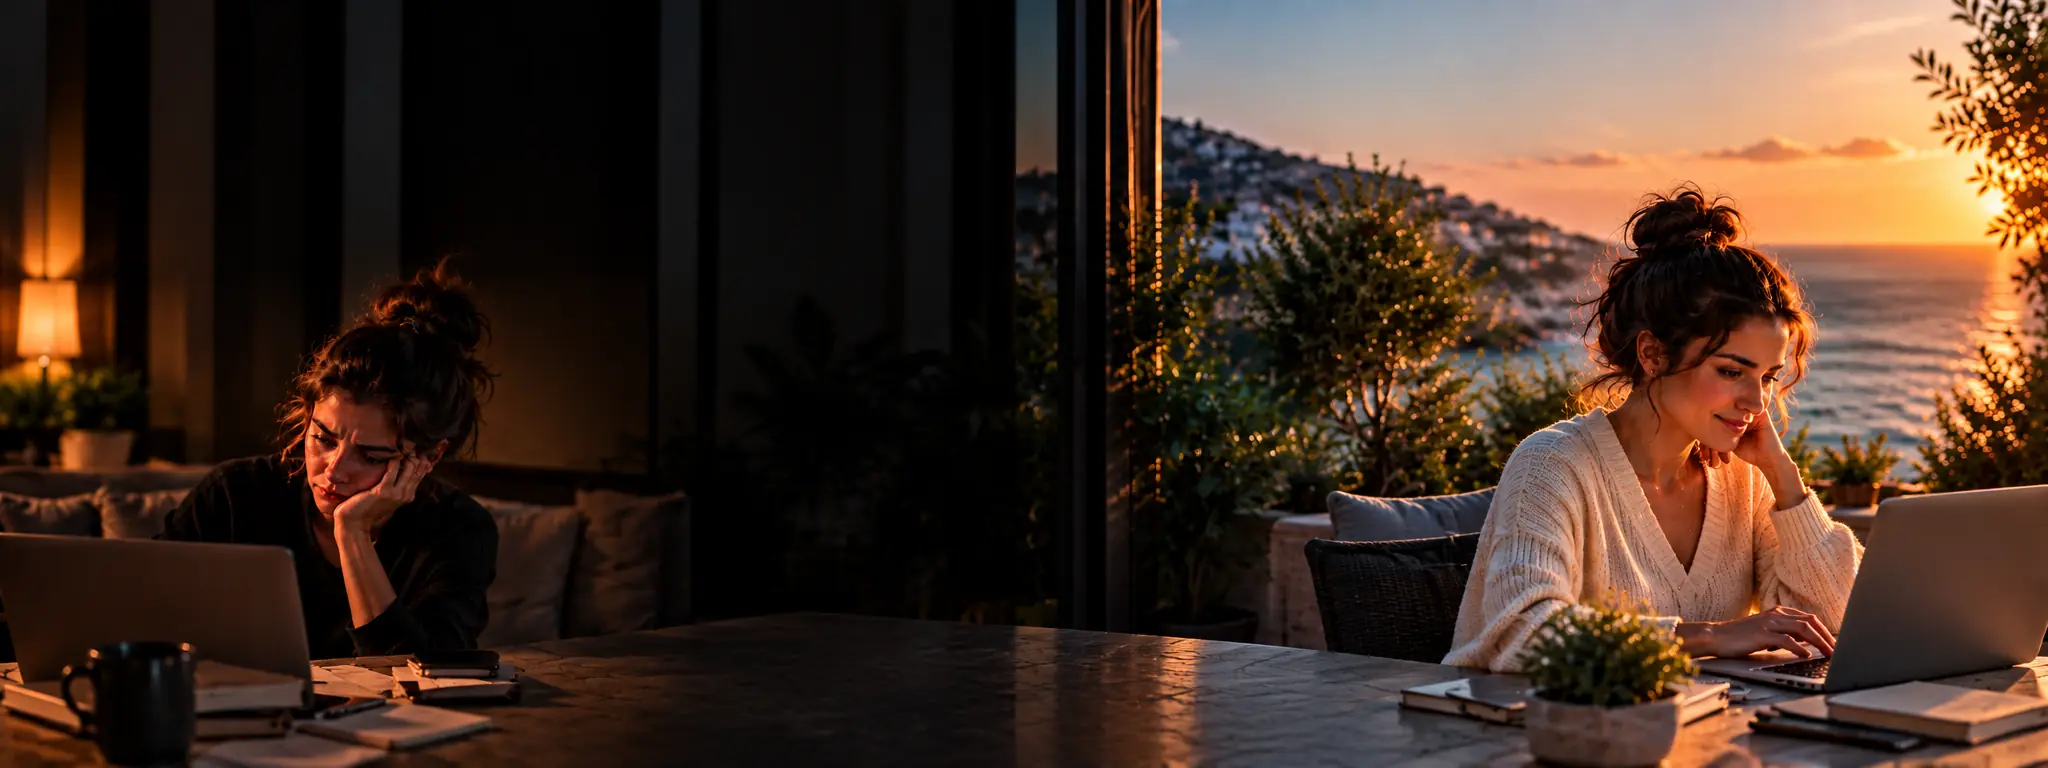
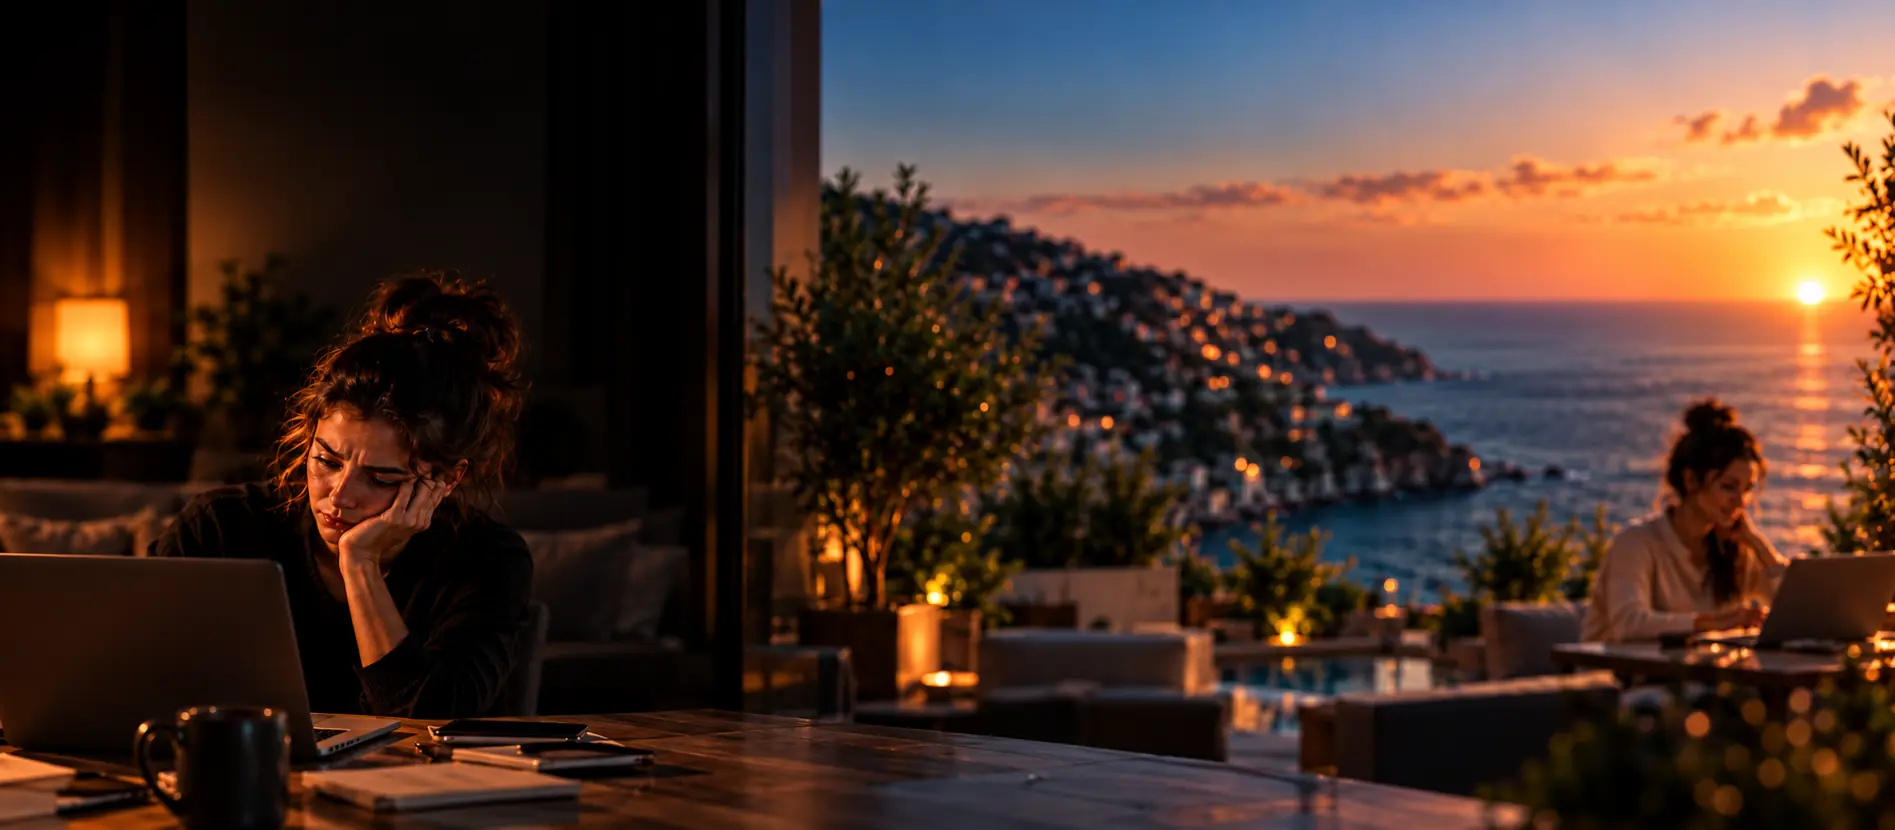
coaching v3: fondo nuevo de donde se cae

diff --git a/src/coaching/index.html b/src/coaching/index.html
@@ -808,7 +808,7 @@
     /* ---------- 02 · DONDE SE CAE ---------- */
     .d3 { background: #05080D; }
     .d3 .foto { background-image: url(/assets/coach3-cae.webp); }
-    .d3 .foto { filter: brightness(1.35) saturate(1.1); }
+    .d3 .foto { background-position: center 60%; }  /* fondo nuevo 2026-10-07: la chica agobiada bajo el texto */
     .d3 .velo { background: linear-gradient(90deg, rgba(4,6,10,.55) 0%, rgba(4,6,10,.25) 26%, rgba(4,6,10,0) 42%); }
     .d3 .caja { display: grid; grid-template-columns: minmax(0, 420px) minmax(0, 1fr); gap: clamp(20px, 2vw, 32px); padding-right: max(22px, 3vw) !important; align-items: start; padding-top: 44px; padding-bottom: 36px; }
     .d3-txt { padding-top: 22px; }
